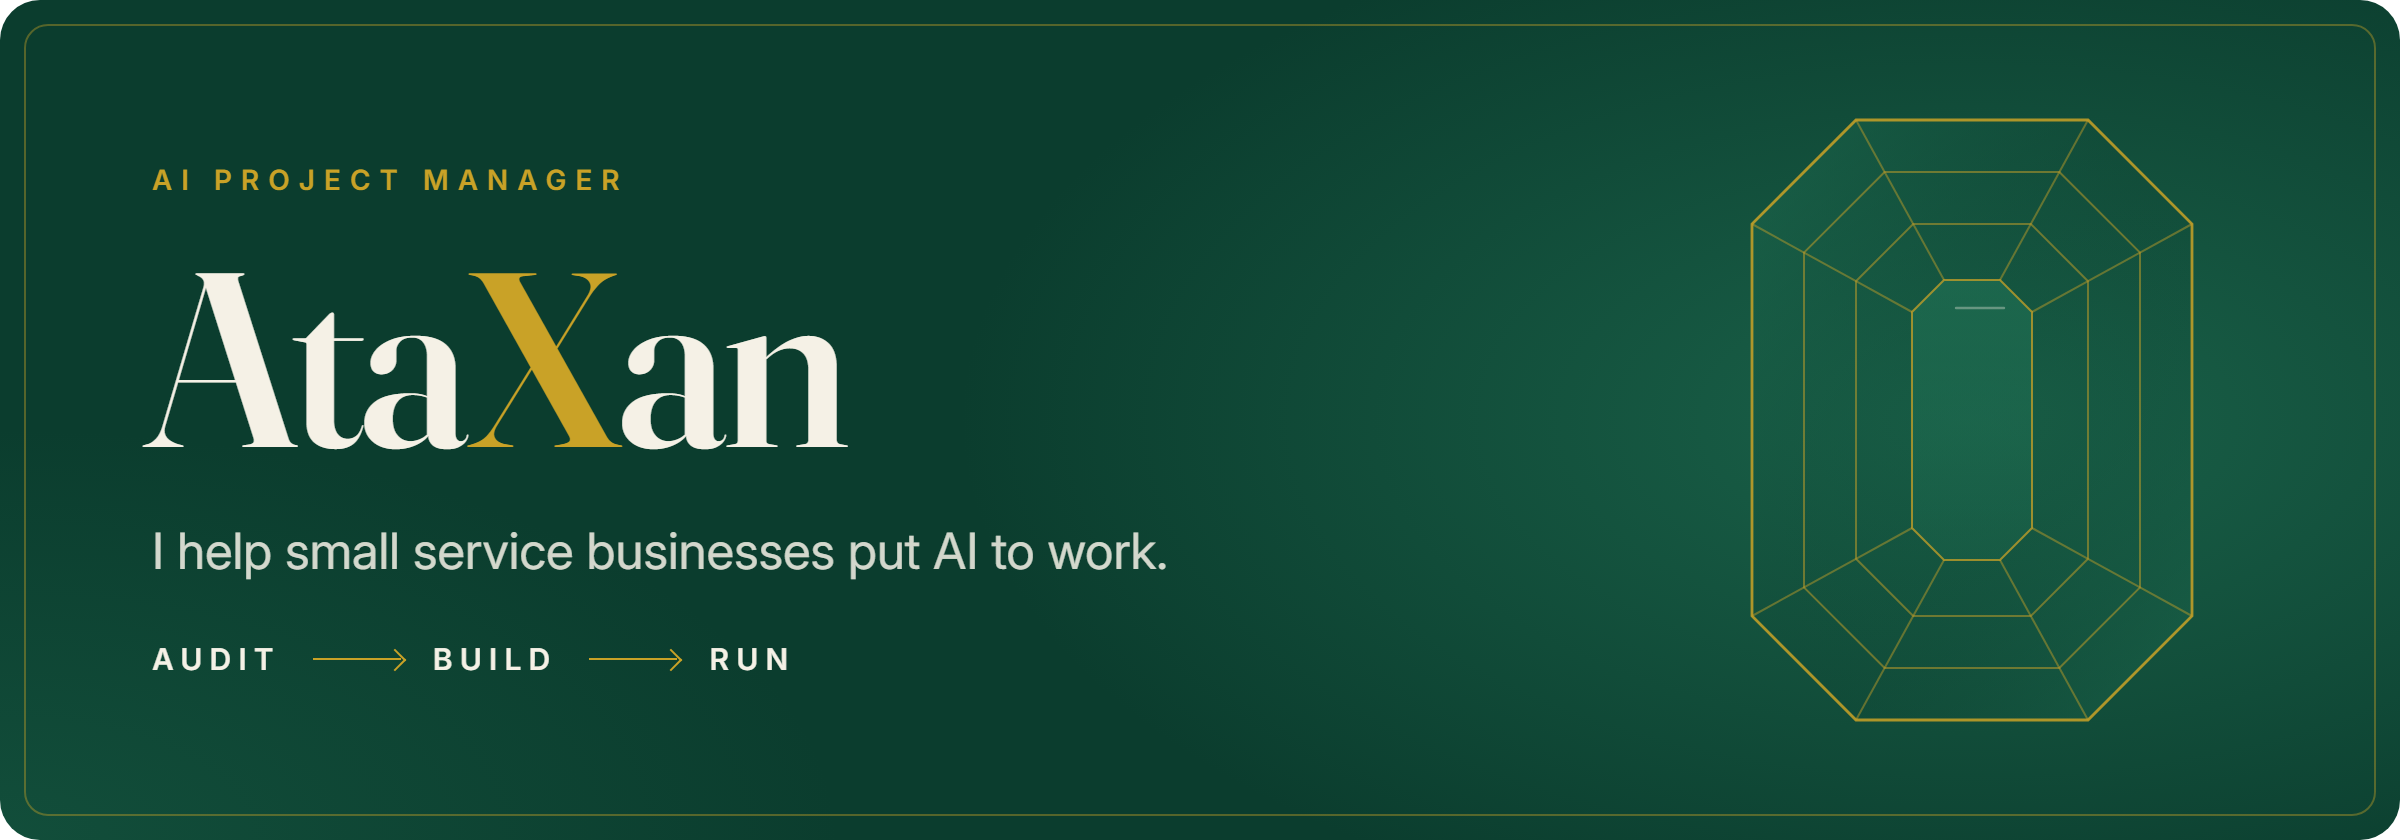
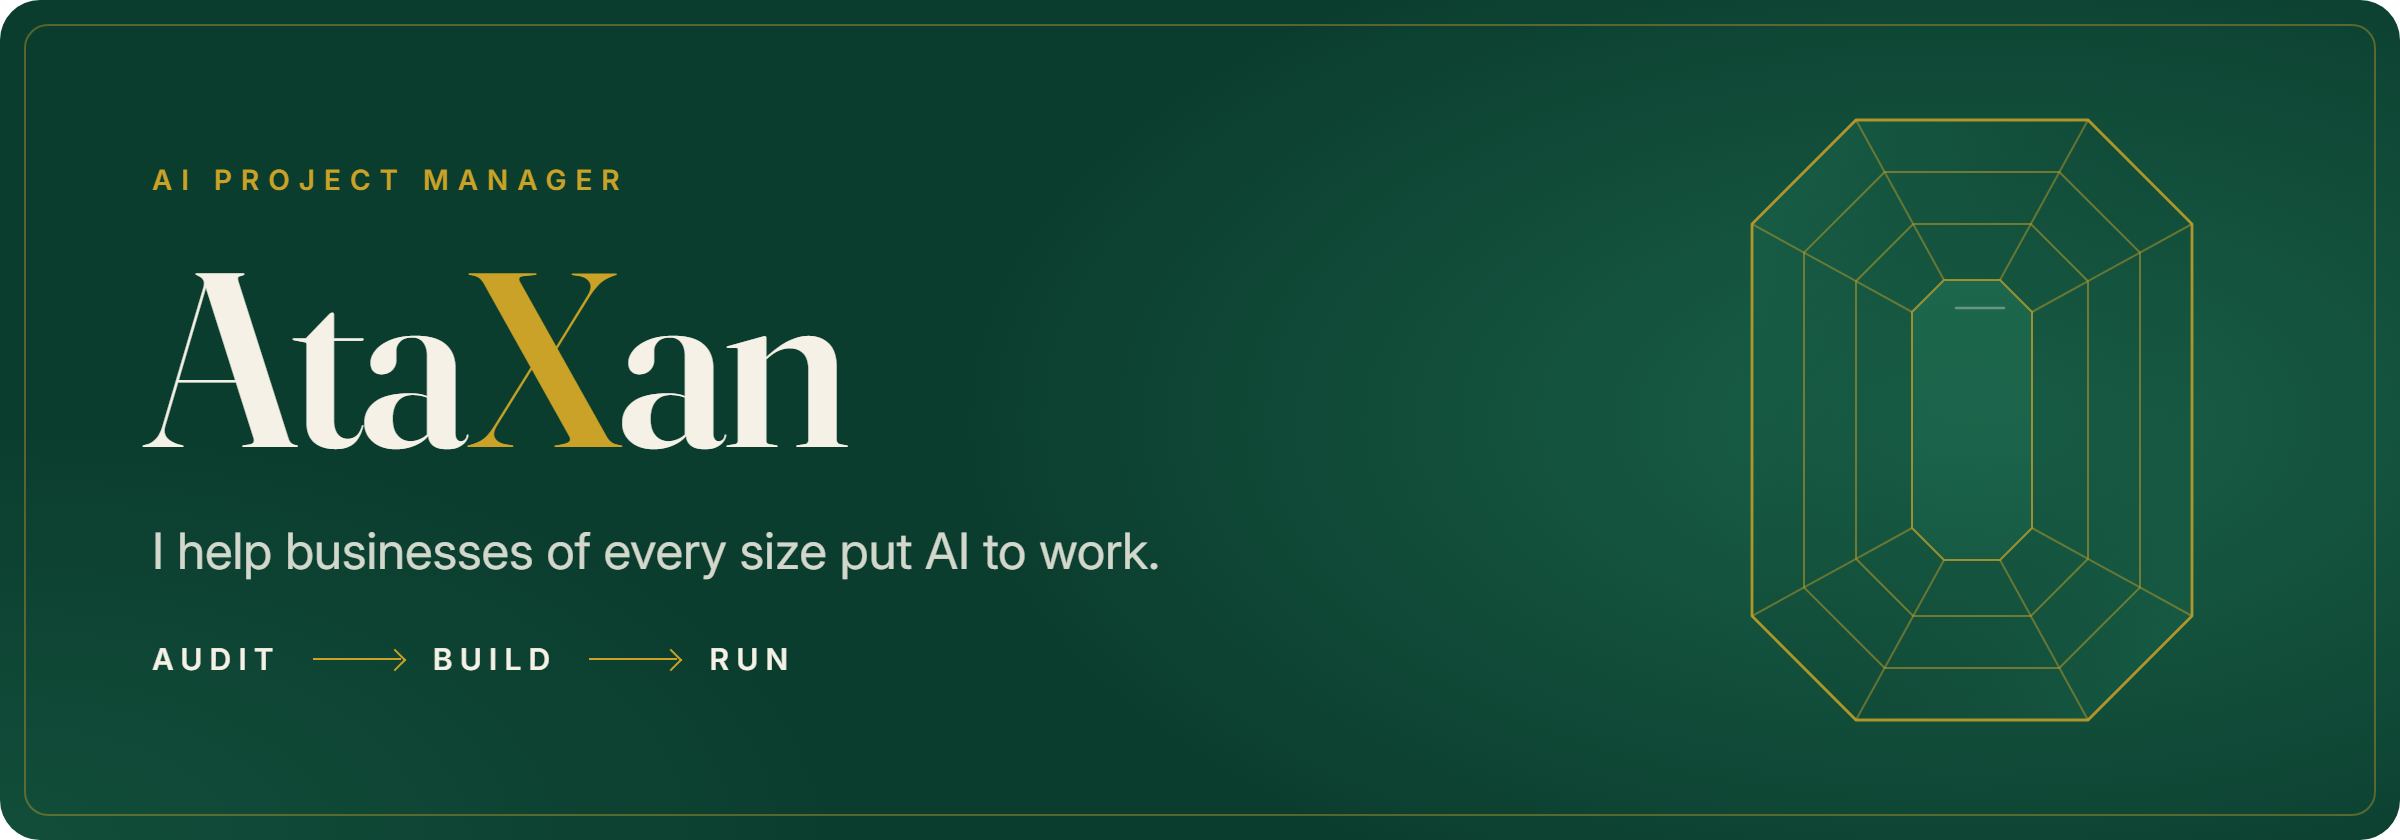
Speak to businesses of every size, not only small ones

Changed region(s): [[0.125, 0.619, 0.5, 0.681]]

diff --git a/README.md b/README.md
@@ -1,10 +1,10 @@
 <p align="center">
-  <img src="assets/banner.png" width="100%" alt="AtaXan, AI Project Manager. I help small service businesses put AI to work. Audit, Build, Run.">
+  <img src="assets/banner.png" width="100%" alt="AtaXan, AI Project Manager. I help businesses of every size put AI to work. Audit, Build, Run.">
 </p>
 
 ## Hi, I'm AtaXan
 
-Small service businesses lose hours every week to the same work: booking appointments, chasing follow-ups, answering the same questions and copying data from one tool to another. I find where those hours go, build the AI and automation that takes that work over, and keep it running, so your team can spend its time on clients.
+Every business, from a solo founder to a large company, loses hours each week to repetitive work: chasing follow-ups, answering the same questions, copying data from one tool to another and putting reports together. I find where those hours go, build the AI and automation that takes that work over, and keep it running, so your people can focus on the work only they can do.
 
 <p align="center">
   <img src="assets/process.png" width="100%" alt="How I work: 01 Audit, find the hours. 02 Build, ship what saves them. 03 Run, keep it running.">
@@ -23,7 +23,7 @@ Small service businesses lose hours every week to the same work: booking appoint
 
 ## Who I work with
 
-Clinics, consultants, real estate and law offices, agencies, online stores, creators and coaches: small teams where every hour counts.
+Businesses of every size, from solo founders to large companies, in any industry where people repeat the same work every week: clinics, consultancies, real estate and law firms, agencies, online stores, SaaS companies, creators and coaches.
 
 ## Let's talk
 
